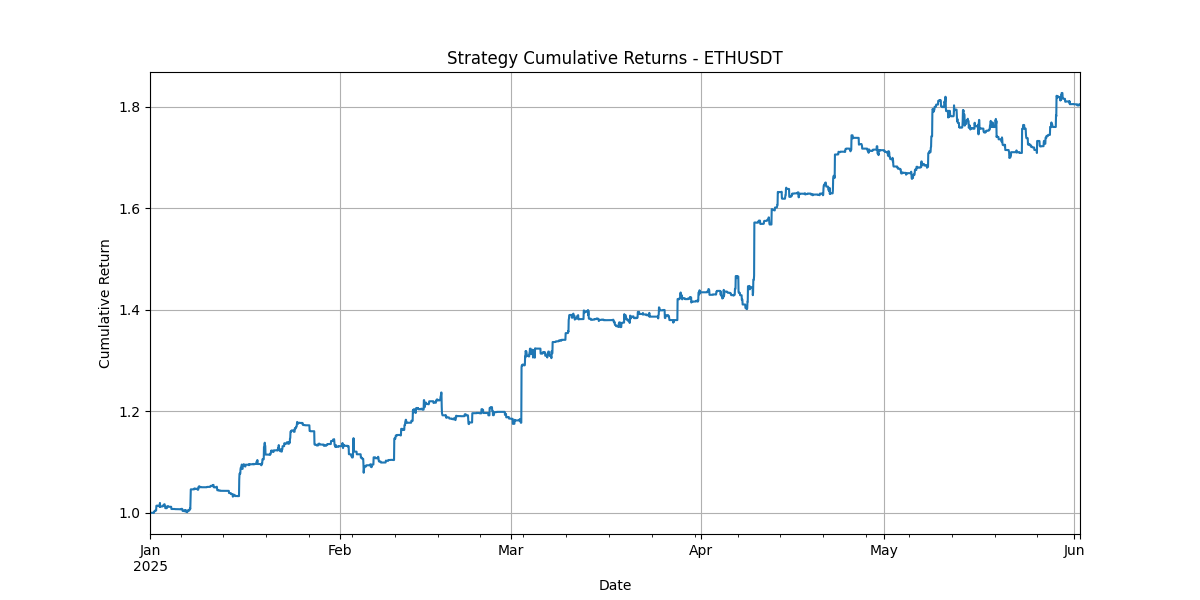
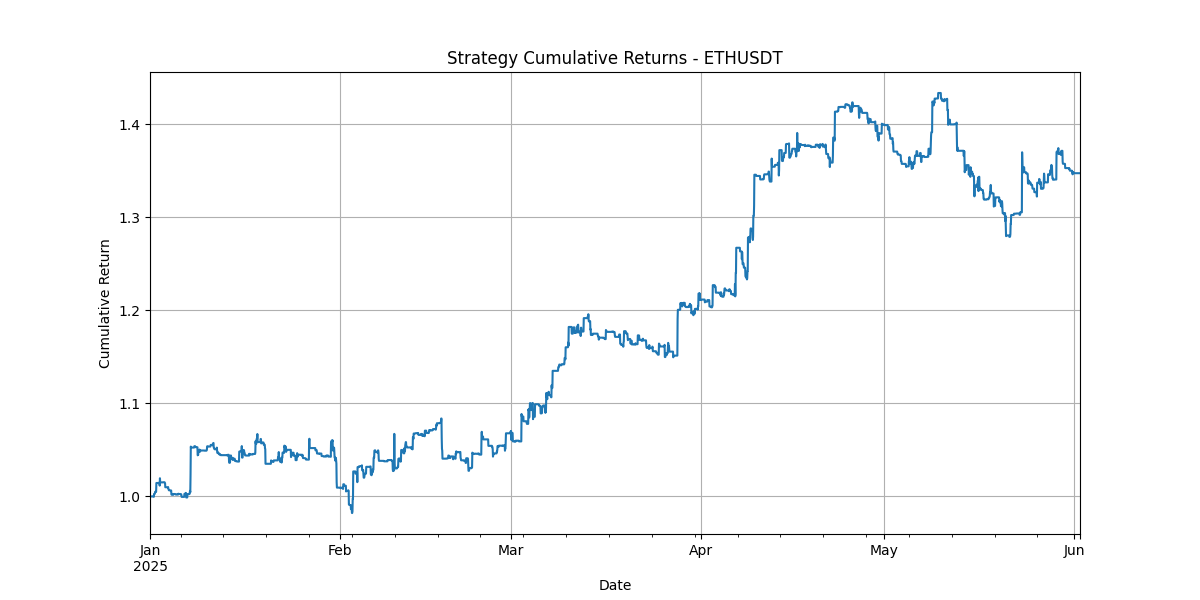
change prediction period to daily

diff --git a/run_factor_analysis.py b/run_factor_analysis.py
@@ -75,21 +75,21 @@ def run_single_factor_analysis(df, factor_func, period_min, transaction_fee_bps=
 
     # 5.5 计算胜率 (Win Rate)
     # 胜率定义为：做多（因子值为正）时未来收益为正的比例，加上做空（因子值为负）时未来收益为负的比例。
-    # 使用上一周期的信号作为本周期的持仓
-    trade_signal = analysis_df['signal'].shift(1)
+    # 使用本周期的信号，因为它决定了本周期未来收益（future_ret）的交易方向
+    trade_signal = analysis_df['signal']
     
     # 识别出做多和做空的周期
     long_trades = trade_signal > 0
     short_trades = trade_signal < 0
     
     # 计算获胜的交易数量
-    wins = (long_trades & (analysis_df['future_ret'] > 0)).sum() + (short_trades & (analysis_df['future_ret'] < 0)).sum()
+    wins = ((long_trades & (analysis_df['future_ret'] > 0)) | (short_trades & (analysis_df['future_ret'] < 0))).sum()
     total_trades = (long_trades | short_trades).sum()
     win_rate = wins / total_trades if total_trades > 0 else 0
 
     # 6. 计算因子夏普率 (Factor Sharpe) - 基于新的交易规则
-    # 6.1 因子收益率（毛利），持仓为-1, 0, 1
-    analysis_df['factor_return'] = analysis_df['signal'].shift(1) * analysis_df['future_ret']
+    # 6.1 因子收益率（毛利）。信号在当前周期初生成，对应当前周期的未来收益 future_ret
+    analysis_df['factor_return'] = analysis_df['signal'] * analysis_df['future_ret']
     
     # 6.2 计算交易成本 (与持仓变化成正比)
     # 更新：与策略回测引擎的成本计算逻辑对齐 (每期都重新开仓)
@@ -193,34 +193,34 @@ def plot_multi_period_pnl(pnl_data_by_period, factor_name, ax):
 
 # --- 因子原型开发区 (Factor Prototyping Area) ---
 # 在这里定义和测试您当前正在研究的新因子。
-def factor_to_test(df):
-    volumes = df["volume"]
-    closes = df["close"]
+def factor_006(df):
+    volumes = df['volume']
+    bidVolumes = df['bid_volume']
+    lows = df['low']
+    highs = df['high']
     opens = df['open']
-    lows = df["low"]
-    highs = df["high"]
-    trades = df["trades"]
-    n = 12 * 60
- 
-    ret = closes/closes.shift(1) - 1
-    weighted_ret = ret.ewm(span=n, adjust=False).mean()
-    f = weighted_ret.pct_change()
-    return  - f * volumes.pct_change()
+    closes = df['close']
+    n = 60
+
+    high_open_ratio = (highs - opens) / (highs - lows + 1e-9)  # 避免除零
+    signal = closes.where(high_open_ratio > 0.8,-closes)
+    f = signal * volumes
+    return f.rolling(n).mean()
 
 if __name__ == '__main__':
     # ==============================================================================
     # --- 1. 配置区 ---
     # ==============================================================================
     # 指定在原型区中要测试的因子函数
-    FACTOR_TO_TEST = factor_to_test
+    FACTOR_TO_TEST = factor_006
     QUANTILE_WINDOW = 24 * 60    # 用于计算分位数信号的滚动窗口 (1440分钟 = 1天)
     LONG_ENTRY_QUANTILE = 0.10   # 做多信号的因子值分位数阈值 (e.g., 0.10 for bottom 10%)
     SHORT_ENTRY_QUANTILE = 0.90  # 做空信号的因子值分位数阈值 (e.g., 0.90 for top 10%)
 
-    SYMBOL = 'BTCUSDT'
+    SYMBOL = 'ETHUSDT'
     TRANSACTION_FEE_BPS = 10     # 用于计算净值夏普率的交易手续费（基点），10个基点即0.1%
-    REBALANCE_PERIODS_MIN = [60, 120, 180, 240] # 测试多个换仓周期
-    START_DATE = '2025-01-01'    # 回测开始日期
+    REBALANCE_PERIODS_MIN = [360, 720, 1440] # 测试12小时和24小时换仓周期
+    START_DATE = '2024-01-01'    # 回测开始日期
     END_DATE = '2025-06-01'      # 回测结束日期 (包含当天)
 
     # ==============================================================================
@@ -283,22 +283,23 @@ if __name__ == '__main__':
             all_results.append(analysis_results)
             pnl_data_for_plotting[period] = detailed_df
 
-        # 合并结果并筛选出60分钟周期的结果进行展示
+        # 合并结果并筛选出第一个周期的结果进行展示
         if all_results:
             final_results_df = pd.concat(all_results, ignore_index=True)
 
-            # 安全地筛选60分钟周期的结果
-            result_60min = final_results_df[final_results_df['Period (min)'] == 60].copy()
+            # 安全地筛选第一个周期的结果进行展示
+            first_period_to_show = REBALANCE_PERIODS_MIN[-1]
+            result_first_period = final_results_df[final_results_df['Period (min)'] == first_period_to_show].copy()
 
-            print(f"\n--- {FACTOR_TO_TEST.__name__} 在 60min 周期下的核心指标 ---")
+            print(f"\n--- {FACTOR_TO_TEST.__name__} 在 {first_period_to_show}min 周期下的核心指标 ---")
             print(f"交易手续费: {TRANSACTION_FEE_BPS} bps ({TRANSACTION_FEE_BPS/10000.0:.4f})")
 
-            if not result_60min.empty:
+            if not result_first_period.empty:
                 # 在打印前移除 Period (min) 列以保持输出简洁
-                result_to_print = result_60min.drop(columns=['Period (min)'])
+                result_to_print = result_first_period.drop(columns=['Period (min)'])
                 print(result_to_print.to_string(index=False))
             else:
-                print("未能找到 60min 周期的分析结果。请确保 60 在 REBALANCE_PERIODS_MIN 配置中。")
+                print(f"未能找到 {first_period_to_show}min 周期的分析结果。请确保 {first_period_to_show} 在 REBALANCE_PERIODS_MIN 配置中。")
 
             # --- 整合绘图 ---
             print("\n--- 正在生成整合分析图表 ---")
@@ -312,9 +313,9 @@ if __name__ == '__main__':
             # 1. 绘制相关性图
             plot_correlation_chart(correlation_series, FACTOR_TO_TEST.__name__, ax1)
 
-            # 2. 绘制毛利vs净利对比图 (使用60min周期数据)
-            df_60min_pnl = pnl_data_for_plotting.get(60)
-            plot_gross_vs_net_pnl(df_60min_pnl, FACTOR_TO_TEST.__name__, 60, ax2)
+            # 2. 绘制毛利vs净利对比图 (使用第一个周期数据)
+            df_first_period_pnl = pnl_data_for_plotting.get(first_period_to_show)
+            plot_gross_vs_net_pnl(df_first_period_pnl, FACTOR_TO_TEST.__name__, first_period_to_show, ax2)
 
             # 3. 绘制多周期对比图
             plot_multi_period_pnl(pnl_data_for_plotting, FACTOR_TO_TEST.__name__, ax3)

diff --git a/backtest/strategies/strategy_combined_factors.py b/backtest/strategies/strategy_combined_factors.py
@@ -2,7 +2,7 @@ import pandas as pd
 import numpy as np
 from backtest.utils import load_factors_from_config
 
-def generate_signals(df, factor_config_path, quantile_window, long_quantile, short_quantile):
+def generate_signals(df, factor_config_path, quantile_window, long_quantile, short_quantile, std_window):
     """
     根据配置文件中的因子，等权相加后，基于滚动分位数生成交易信号。
     
@@ -21,6 +21,7 @@ def generate_signals(df, factor_config_path, quantile_window, long_quantile, sho
     :param quantile_window: 计算分位数的滚动窗口。
     :param long_quantile: 做多信号的分位数阈值。
     :param short_quantile: 做空信号的分位数阈值。
+    :param std_window: 因子标准化（Z-Score）的滚动窗口。
     :return: 带有 'signal' 列的DataFrame。
     """
     df_factors = pd.DataFrame(index=df.index)
@@ -39,9 +40,9 @@ def generate_signals(df, factor_config_path, quantile_window, long_quantile, sho
             # 为了让不同量纲的因子能被“等权”相加，标准化是必不可少的。
             # 它将每个因子的值都转换为相似的尺度，确保每个因子都有机会影响最终结果。
             # 这里使用滚动标准化(rolling z-score)来避免使用未来数据。窗口期可以根据因子特性调整。
-            rolling_window = 1440 # 使用过去24小时(1440分钟)的数据进行标准化
-            mean = factor_series.rolling(window=rolling_window, min_periods=60).mean()
-            std = factor_series.rolling(window=rolling_window, min_periods=60).std()
+            # 使用更稳健的min_periods，例如窗口的1/24，而不是硬编码的60
+            mean = factor_series.rolling(window=std_window, min_periods=max(1, std_window // 24)).mean()
+            std = factor_series.rolling(window=std_window, min_periods=max(1, std_window // 24)).std()
             factor_series = (factor_series - mean) / std
             
             df_factors[name] = factor_series

diff --git a/backtest/factors.py b/backtest/factors.py
@@ -5,29 +5,27 @@ def factor_001(df):
     return - df['close'].rolling(window=15).mean()
 
 def factor_002(df):
-    log_vol = np.log(df['volume'])
-    gradient = log_vol.pct_change()
-    kurt = log_vol.rolling(30).kurt()
-    return kurt * gradient
+    vwap = (df['close'] * df['volume']).rolling(1440).sum() / df['volume'].rolling(1440).sum()
+    f = (vwap - df['close']) / df['close'].rolling(12 * 60).std()
+    return - f.rolling(1440).mean()
 
 def factor_003(df):
-    low_diff = np.log(df['close']) - np.log(df['low']).rolling(120).min()
-    high_diff = np.log(df['high']).rolling(120).max() - np.log(df['close'])
-    z_low = (low_diff - low_diff.rolling(240).mean()) / low_diff.rolling(240).std()
-    z_high = (high_diff - high_diff.rolling(240).mean()) / high_diff.rolling(240).std()
-    return - z_low / z_high
-
-
-def factor_004(df):
-    vwap = (df['close'] * df['volume']).rolling(240).sum() / df['volume'].rolling(240).sum()
-    f = (vwap - df['close']) / df['close'].rolling(5).std()
-    return - f.rolling(48).mean()
-
-def factor_005(df):
     f = df['volume'] / df['trades']
     return f.pct_change().rolling(12 * 60).sum()
 
-def factro_006(df):
-    std_close = df['close'].rolling(120).std()
-    condition = std_close.where(df['close'] > df['close'].shift(1), 0)
-    return condition.ewm(span=12 * 60, adjust=False).mean()
+def factor_004(df):
+    n = 60
+
+    adv_s = df['volume'].rolling(n).mean()
+    adv_l = df['volume'].rolling(5*n).mean()
+    A = 1 + (adv_s/adv_l)
+    B = 1 -  (adv_s/adv_l)
+    f = df['bid_volume'] / df['volume'].rolling(30).mean() - 1
+    f = (f*A).where(f >= 0, f*B)
+    return f
+
+def factor_005(df):
+    n = 60
+
+    diff = df['high'] - df['low']
+    return diff.pct_change().rolling(2*n).sum()

diff --git a/run_strategy_backtest.py b/run_strategy_backtest.py
@@ -12,13 +12,16 @@ SYMBOL = 'ETHUSDT'
 START_DATE = '2025-01-01'
 END_DATE = '2025-06-01'
 INITIAL_CAPITAL = 2000
-TRANSACTION_FEE_BPS = 0   # 手续费 (bps), e.g., 2 bps = 0.02%
-REBALANCE_PERIOD_MIN = 60 # 换仓周期（分钟）
+TRANSACTION_FEE_BPS = 10   # 手续费 (bps), e.g., 10 bps = 0.1%
+REBALANCE_PERIOD_MIN = 720 # 换仓周期（分钟）, 720分钟 = 12小时
 
 # 新增：交易信号生成阈值 (与因子分析脚本对齐)
 QUANTILE_WINDOW = 24 * 60    # 用于计算分位数信号的滚动窗口 (1440分钟 = 1天)
 LONG_ENTRY_QUANTILE = 0.10   # 做多信号的因子值分位数阈值 (e.g., 0.10 for bottom 10%)
 SHORT_ENTRY_QUANTILE = 0.90  # 做空信号的因子值分位数阈值 (e.g., 0.90 for top 10%)
+
+# 新增：因子标准化窗口
+FACTOR_STD_WINDOW = 24 * 60  # 用于计算因子Z-Score的滚动窗口 (1440分钟 = 1天)
 
 # 新增：最大杠杆/仓位。策略的实际仓位 = 信号强度 * LEVERAGE
 LEVERAGE = 1.0 # 1.0 表示最强信号时开满仓，0.5表示最强信号时开半仓
@@ -52,7 +55,8 @@ if __name__ == '__main__':
             config_path,
             QUANTILE_WINDOW,
             LONG_ENTRY_QUANTILE,
-            SHORT_ENTRY_QUANTILE
+            SHORT_ENTRY_QUANTILE,
+            FACTOR_STD_WINDOW
         )
 
         # 4. 将带信号的数据送入回测引擎
